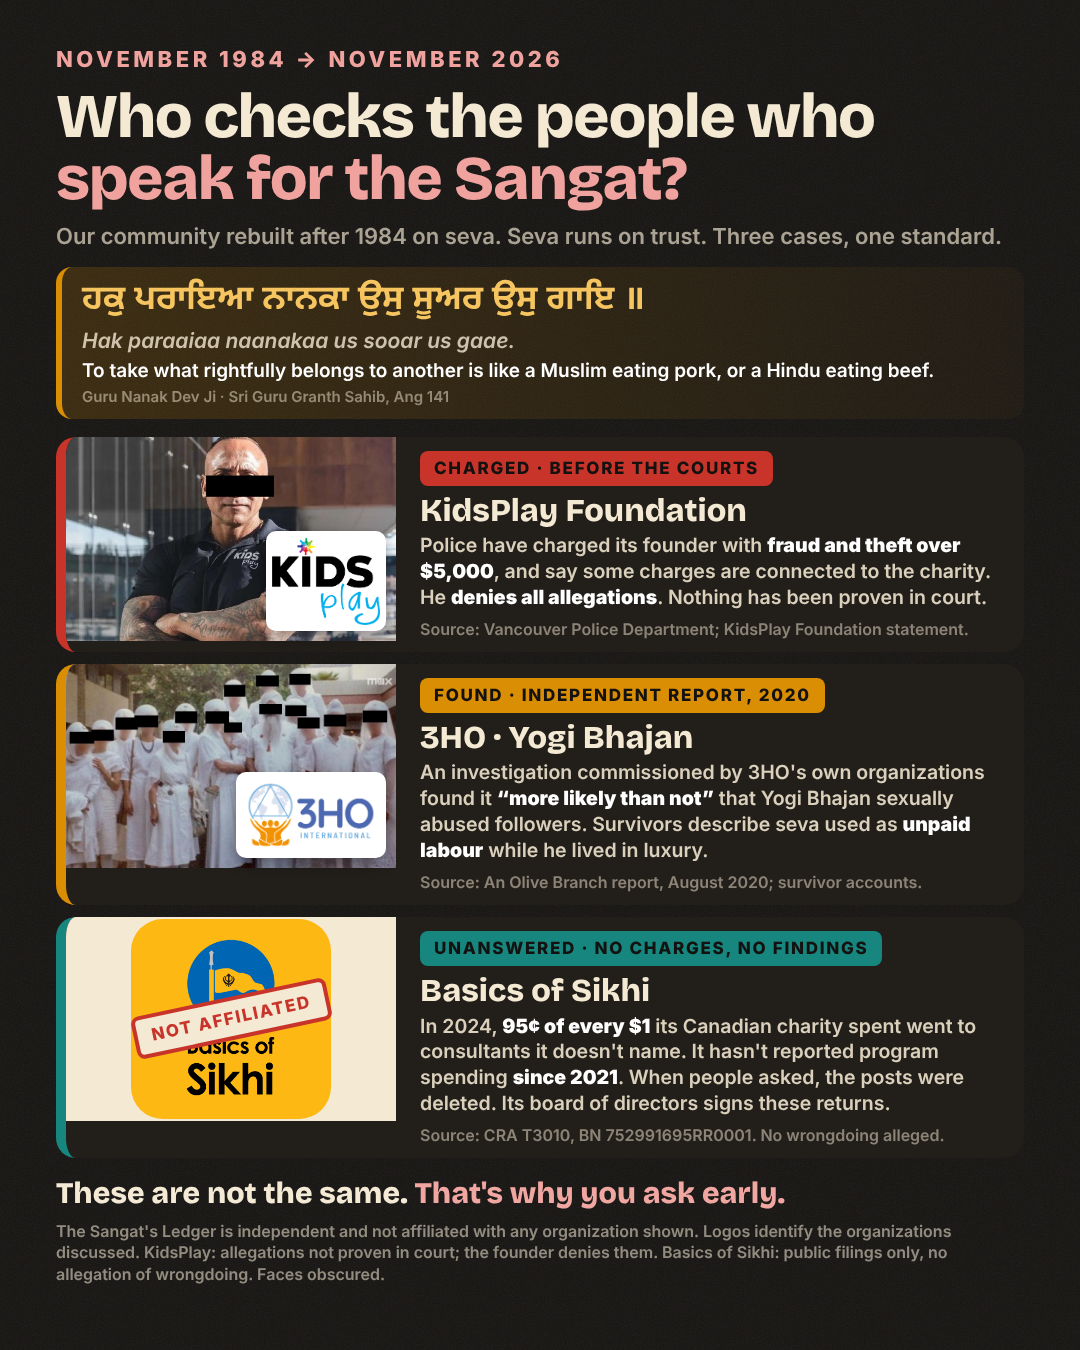
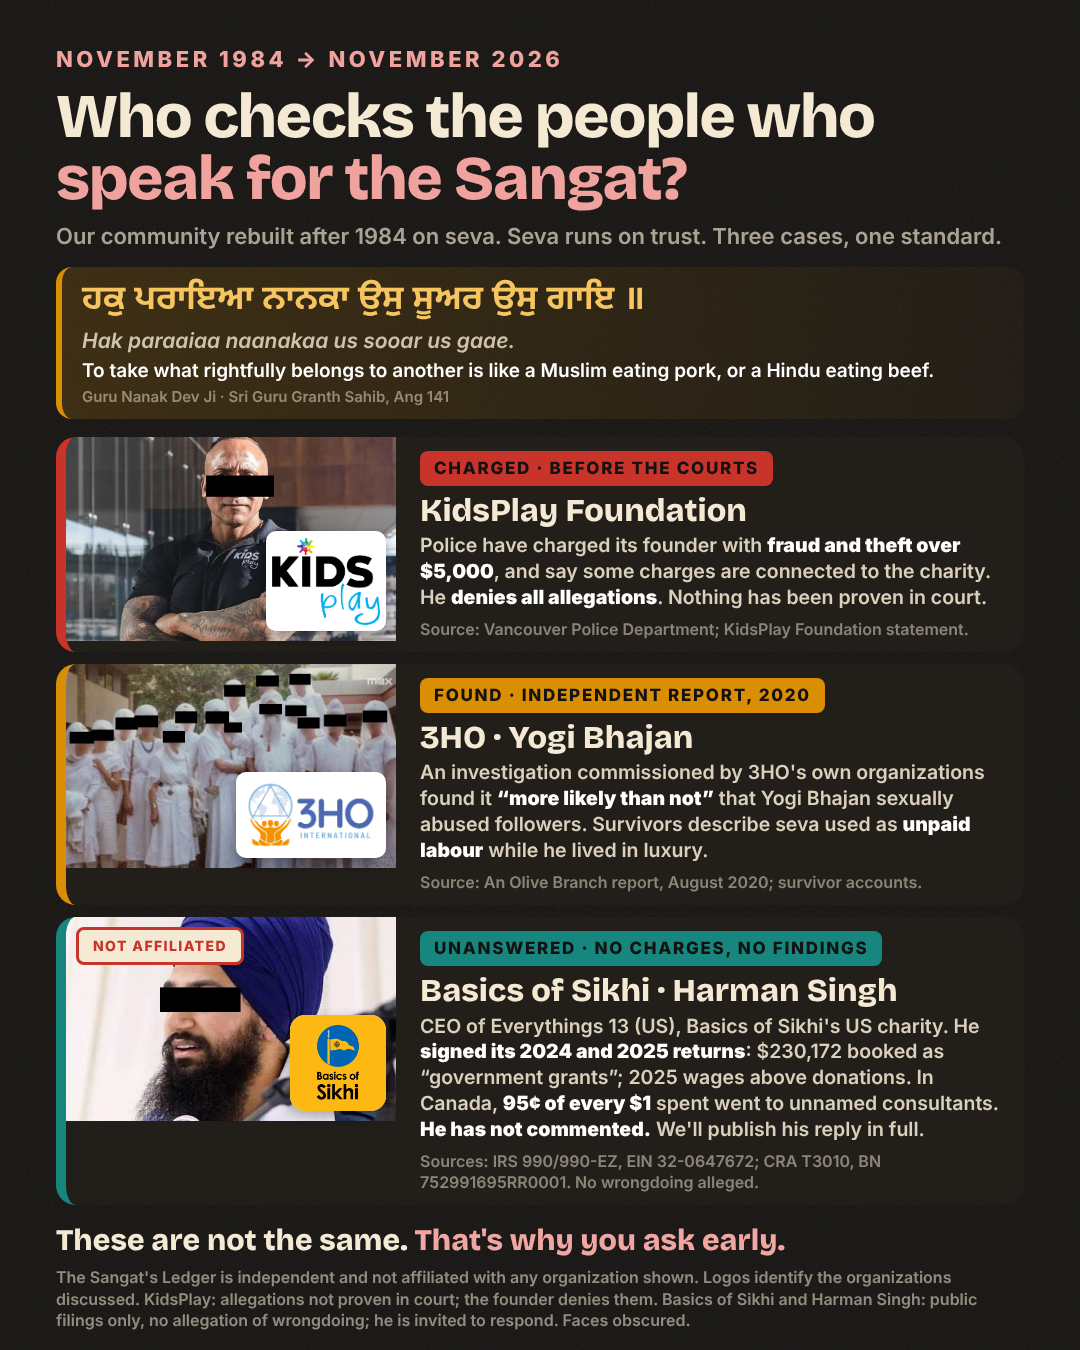
November 1 post: add Harman Singh to the Basics of Sikhi panel
Same format as the other cases (eyes barred, logo badge, status). Role
taken from the filings: CEO of Everythings 13 (US), signer of its 2024
and 2025 IRS returns. States he has not commented and that his reply
will be published in full; no wrongdoing alleged.

Changed region(s): [[0.0306, 0.6533, 0.9167, 0.9956]]

diff --git a/nov1.html b/nov1.html
@@ -74,19 +74,19 @@ h1 span{color:#f0a39e}
     </div>
 
     <div class="panel" style="--c:var(--teal)">
-      <div class="pic" style="display:flex;align-items:center;justify-content:center;background:#F4E9D3"><img src="assets/reel/bos-logo.png" alt="Basics of Sikhi logo" style="width:200px;border-radius:16%"><div class="status" style="position:absolute;transform:rotate(-12deg);background:var(--paper);color:var(--red);border:4px solid var(--red)">Not affiliated</div></div>
+      <div class="pic"><img class="photo" src="assets/nov1/bos-harman-singh-barred.jpg" alt="Harman Singh, face obscured" style="object-position:40% 30%"><img class="logo" src="assets/reel/bos-logo.png" alt="Basics of Sikhi logo" style="width:96px;padding:0;border-radius:16%"><div class="status" style="position:absolute;left:10px;top:10px;background:var(--paper);color:var(--red);border:3px solid var(--red);font-size:14px">Not affiliated</div></div>
       <div class="txt">
         <span class="status">Unanswered &middot; no charges, no findings</span>
-        <h2>Basics of Sikhi</h2>
-        <p>In 2024, <b>95&cent; of every $1</b> its Canadian charity spent went to consultants it doesn't name. It hasn't reported program spending <b>since 2021</b>. When people asked, the posts were deleted. Its board of directors signs these returns.</p>
-        <div class="src">Source: CRA T3010, BN 752991695RR0001. No wrongdoing alleged.</div>
+        <h2>Basics of Sikhi &middot; Harman Singh</h2>
+        <p>CEO of Everythings 13 (US), Basics of Sikhi's US charity. He <b>signed its 2024 and 2025 returns</b>: $230,172 booked as &ldquo;government grants&rdquo;; 2025 wages above donations. In Canada, <b>95&cent; of every $1</b> spent went to unnamed consultants. <b>He has not commented.</b> We'll publish his reply in full.</p>
+        <div class="src">Sources: IRS 990/990-EZ, EIN 32-0647672; CRA T3010, BN 752991695RR0001. No wrongdoing alleged.</div>
       </div>
     </div>
   </div>
 
   <div class="foot">
     <div class="big">These are not the same. <span>That's why you ask early.</span></div>
-    <div class="fine">The Sangat's Ledger is independent and not affiliated with any organization shown. Logos identify the organizations discussed. KidsPlay: allegations not proven in court; the founder denies them. Basics of Sikhi: public filings only, no allegation of wrongdoing. Faces obscured.</div>
+    <div class="fine">The Sangat's Ledger is independent and not affiliated with any organization shown. Logos identify the organizations discussed. KidsPlay: allegations not proven in court; the founder denies them. Basics of Sikhi and Harman Singh: public filings only, no allegation of wrongdoing; he is invited to respond. Faces obscured.</div>
   </div>
 </section>
 </body>
